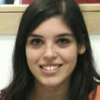
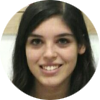
Cambiados los bordes de las fotografías

diff --git a/Proyecto/index/Inicio.html b/Proyecto/index/Inicio.html
@@ -69,7 +69,7 @@
                   <div class="mdl-list">
                   <div class="mdl-list__item">
                     <span class="mdl-list__item-primary-content">
-                      <img class="material-icons mdl-list__item-avatar" src="../images/adrian.jpg">
+                      <img class="material-icons mdl-list__item-avatar" src="../images/adrian.png">
                       <span>Adrián Alcántara Delgado</span>
                     </span>
                   </div>
@@ -81,13 +81,13 @@
                   </div>
                   <div class="mdl-list__item">
                     <span class="mdl-list__item-primary-content">
-                      <img class="material-icons mdl-list__item-avatar" src="../images/daniel.jpg">
+                      <img class="material-icons mdl-list__item-avatar" src="../images/daniel.png">
                       <span>Daniel Quintero Bernal</span>
                     </span>
                   </div>
                   <div class="mdl-list__item">
                     <span class="mdl-list__item-primary-content">
-                      <img class="material-icons mdl-list__item-avatar" src="../images/raul.jpg">
+                      <img class="material-icons mdl-list__item-avatar" src="../images/raul.png">
                       <span>Raúl Serrano Gómez</span>
                     </span>
                   </div>
